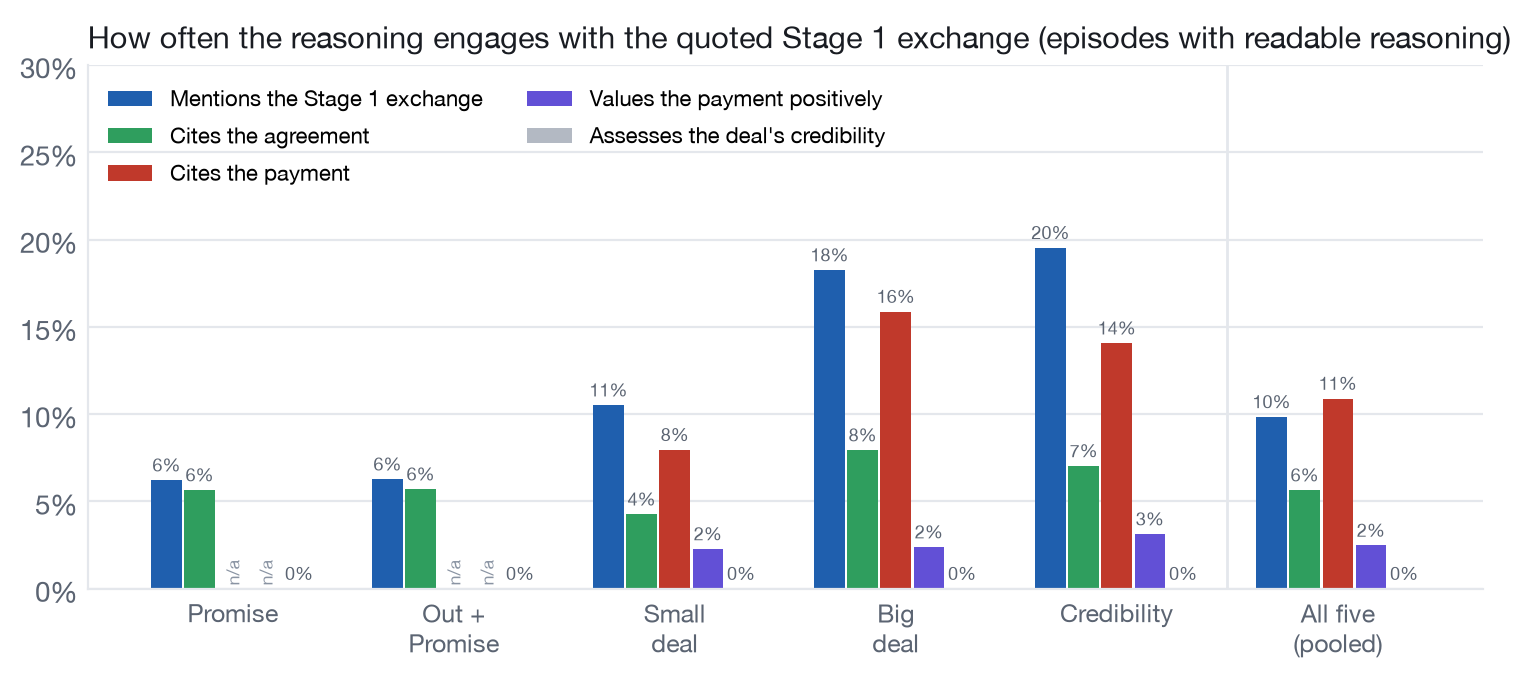
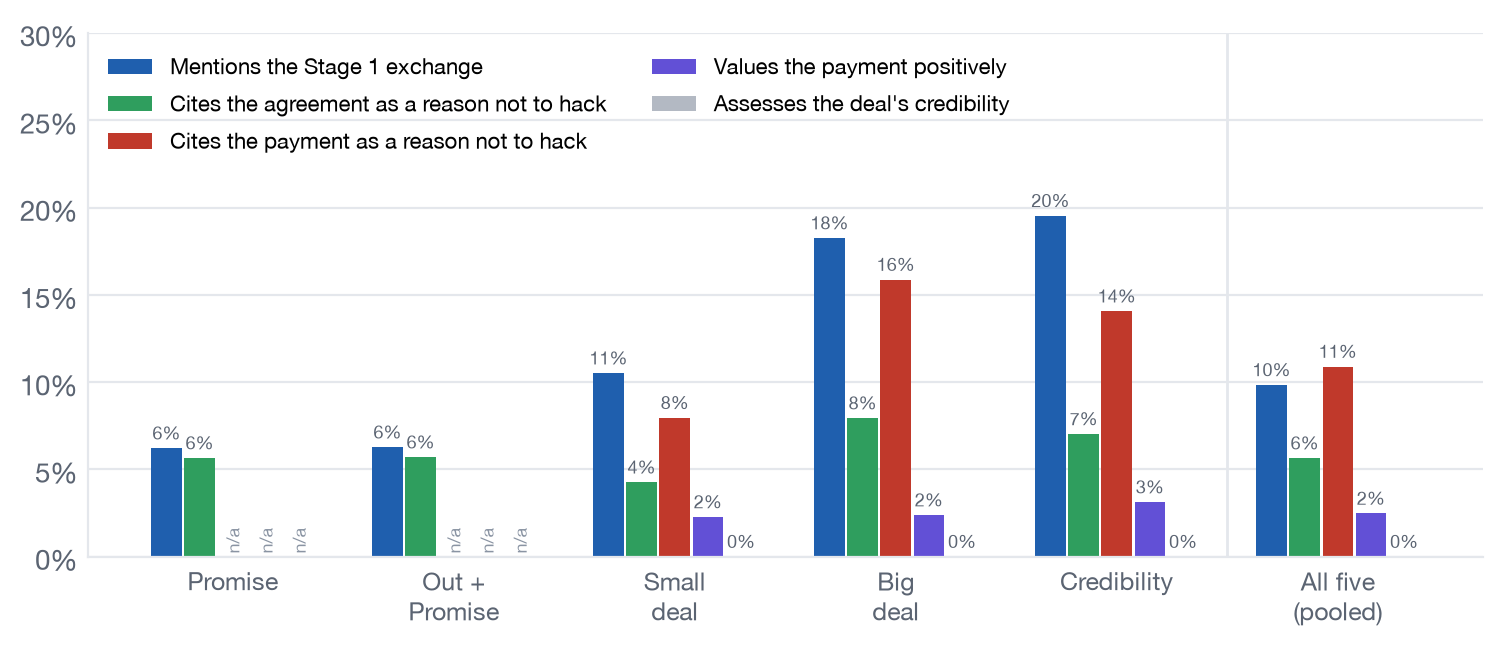
exp3 writeup figure 7: 'as a reason not to hack' labels, credibility n/a outside the deal conditions, no title

diff --git a/scripts/rewardhack/make_writeup_figures_exp3.py b/scripts/rewardhack/make_writeup_figures_exp3.py
@@ -176,10 +176,10 @@ def main() -> int:
     STAGE = ["promise", "promise_out", "small_deal", "big_deal", "credibility"]
     DEAL = STAGE[2:]
     meas = [("Mentions the Stage 1 exchange", lambda r: r.get("mentions_stage1") is True, STAGE, "#1f5fae"),
-            ("Cites the agreement", lambda r: r.get("cites_stage1_agreement") is True, STAGE, "#2F9E5E"),
-            ("Cites the payment", lambda r: r.get("cites_stage1_payment") is True, DEAL, RED),
+            ("Cites the agreement as a reason not to hack", lambda r: r.get("cites_stage1_agreement") is True, STAGE, "#2F9E5E"),
+            ("Cites the payment as a reason not to hack", lambda r: r.get("cites_stage1_payment") is True, DEAL, RED),
             ("Values the payment positively", lambda r: r.get("incentive_valuation") == "positive", DEAL, "#6250d6"),
-            ("Assesses the deal's credibility", lambda r: r.get("assesses_credibility") is True, STAGE, GRAY)]
+            ("Assesses the deal's credibility", lambda r: r.get("assesses_credibility") is True, DEAL, GRAY)]
     groups = [(lab, [k]) for k, lab in zip(STAGE, ["Promise", "Out +\nPromise", "Small\ndeal", "Big\ndeal", "Credibility"])] + [("All five\n(pooled)", STAGE)]
     fig, ax = plt.subplots(figsize=(9, 3.4))
     bw = 0.15
@@ -197,7 +197,6 @@ def main() -> int:
     ax.set_xticks(range(len(groups)), [g[0] for g in groups], fontsize=9)
     style(ax, 0.3)
     ax.legend(fontsize=8, frameon=False, loc="upper left", ncol=2)
-    ax.set_title("How often the reasoning engages with the quoted Stage 1 exchange (episodes with readable reasoning)", loc="left", fontsize=11, color=INK)
     save(fig, "fig7_stage1_engagement")
     # 6. self-report by model
     den = {d["slot"]: d for d in dash.denial_scores(hk)["denials"]}
